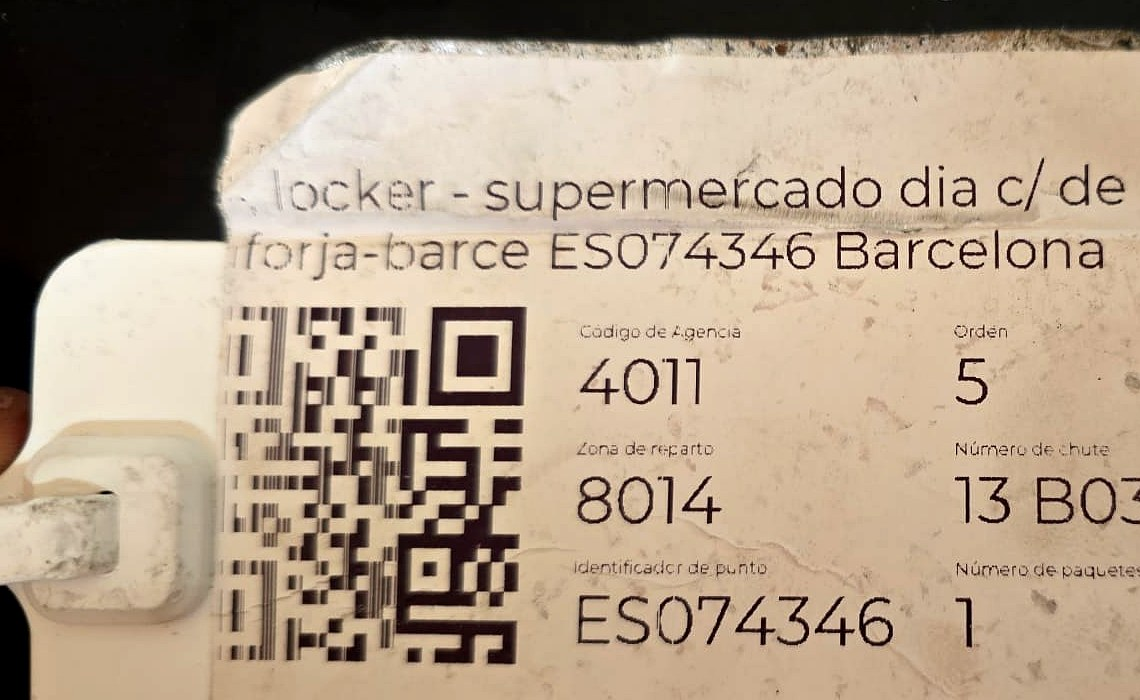
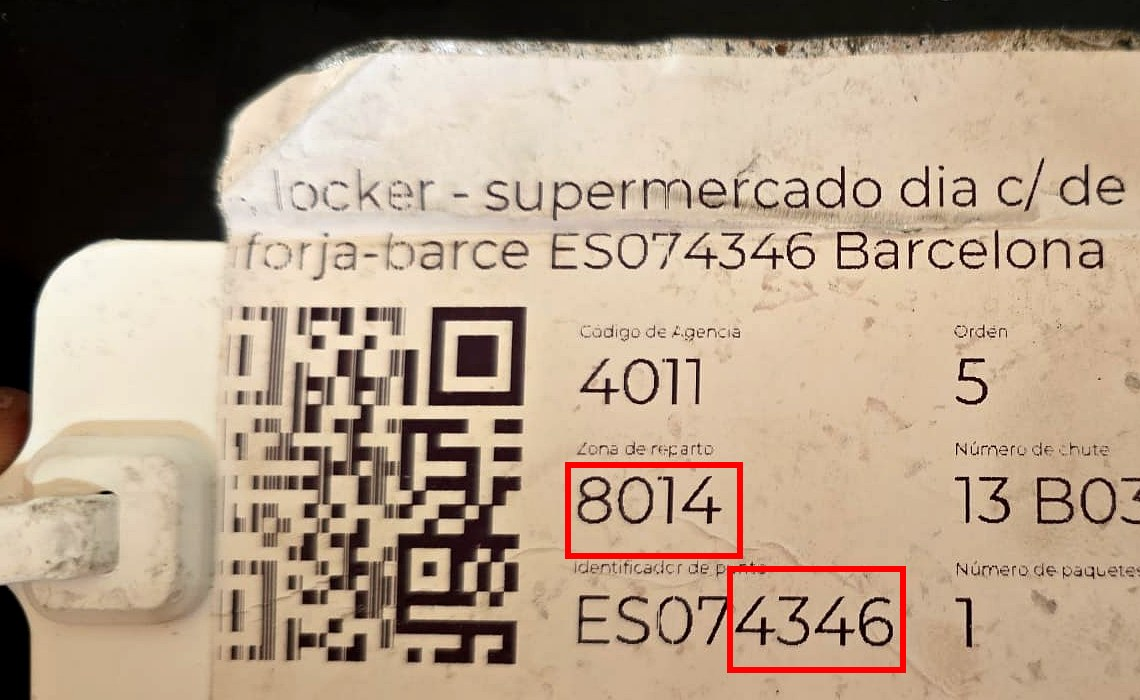
Listo. La imagen ahora tiene **dos recuadros rojos**: - Alrededor del **número de ruta** ("Zona de reparto": 8014). - Alrededor de **solo los últimos 4 dígitos** del Identificador de punto (4346), no todo ES074346.
Ya está aplicada en la tarjeta de ayuda de "Ordenar Sacas".

Changed region(s): [[0.4912, 0.66, 0.7982, 0.96]]

diff --git a/frontend/src/components/SacasSort.jsx b/frontend/src/components/SacasSort.jsx
@@ -248,7 +248,7 @@ export const SacasSort = ({ onNext }) => {
           </button>
           {showHelp && (
             <div className="px-3 pb-3">
-              <img src="/saca-ejemplo.jpg" alt="Ejemplo de etiqueta de saca" className="w-full rounded-lg border border-slate-700 mb-3" />
+              <img src="/saca-ejemplo.jpg?v=2" alt="Ejemplo de etiqueta de saca" className="w-full rounded-lg border border-slate-700 mb-3" />
               <div className="space-y-2 text-sm">
                 <div className="flex items-start gap-2 rounded-lg bg-slate-900 border border-slate-700 p-2.5">
                   <span className="shrink-0 w-6 h-6 rounded-full bg-[#F26A21] text-white text-xs font-bold flex items-center justify-center">1</span>
